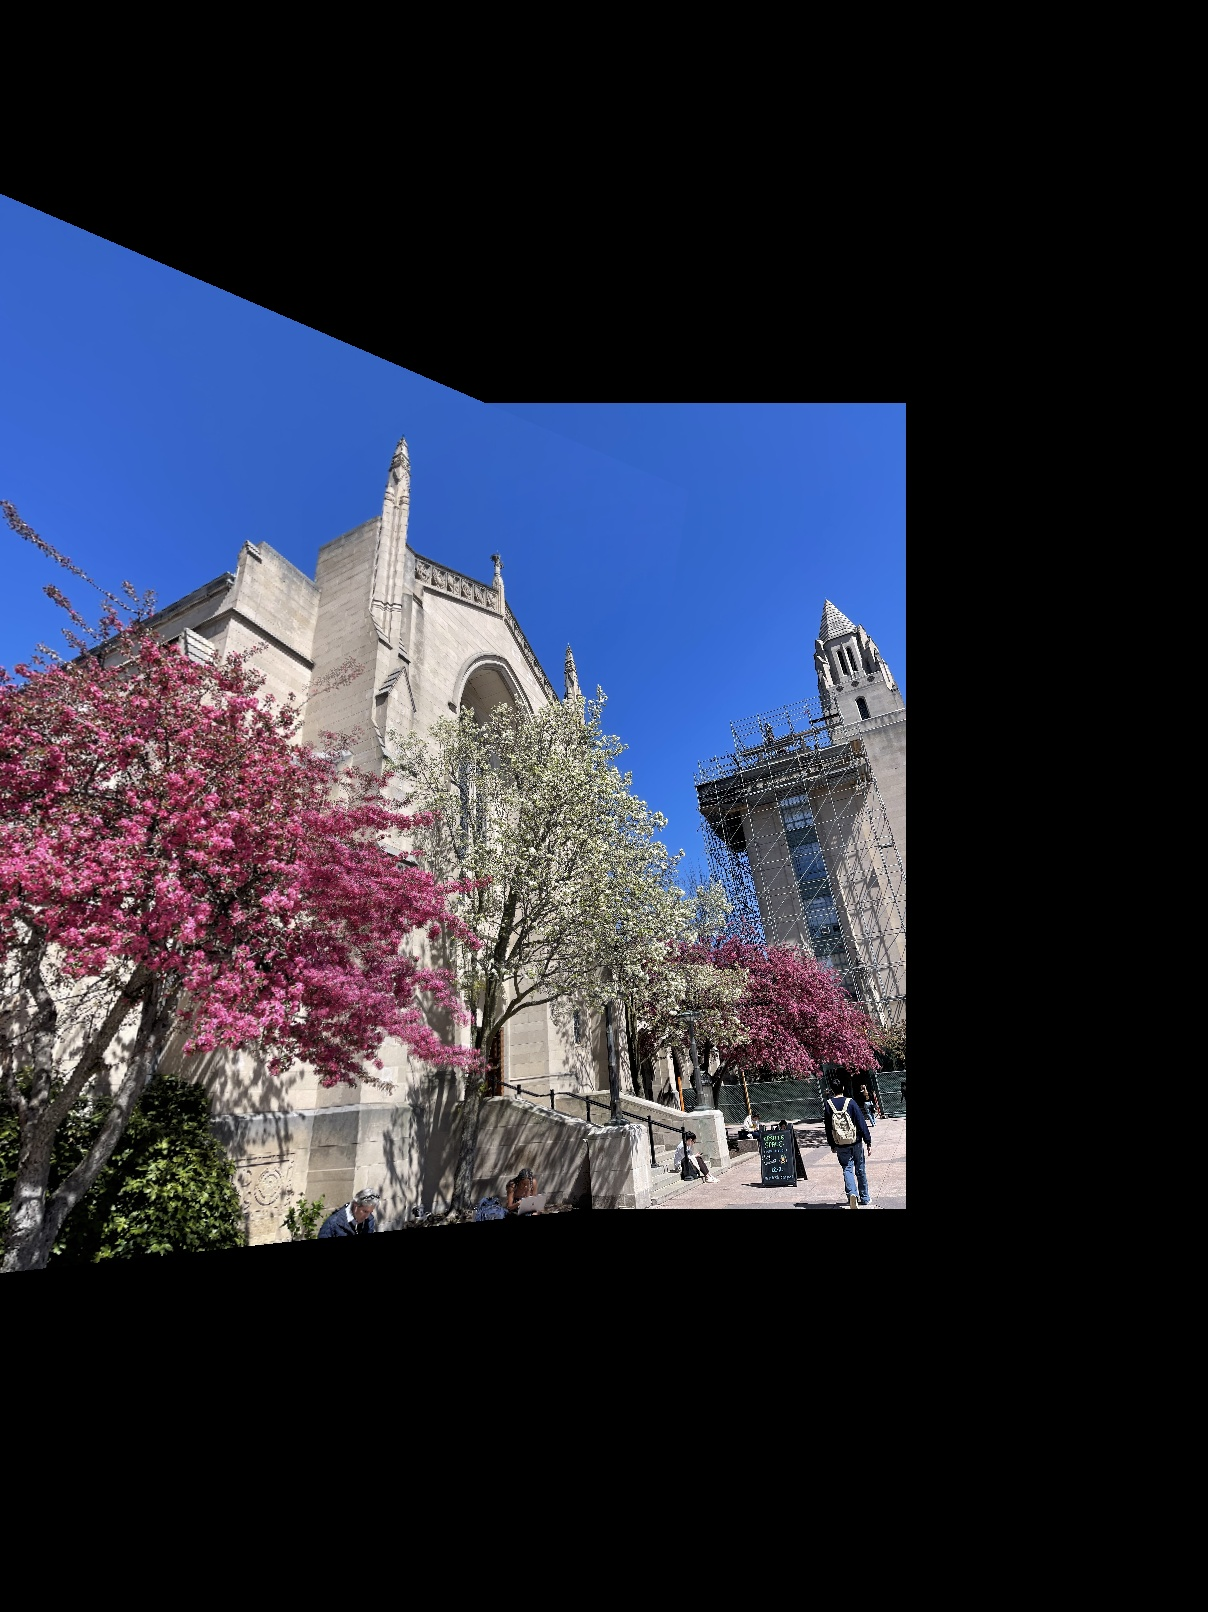
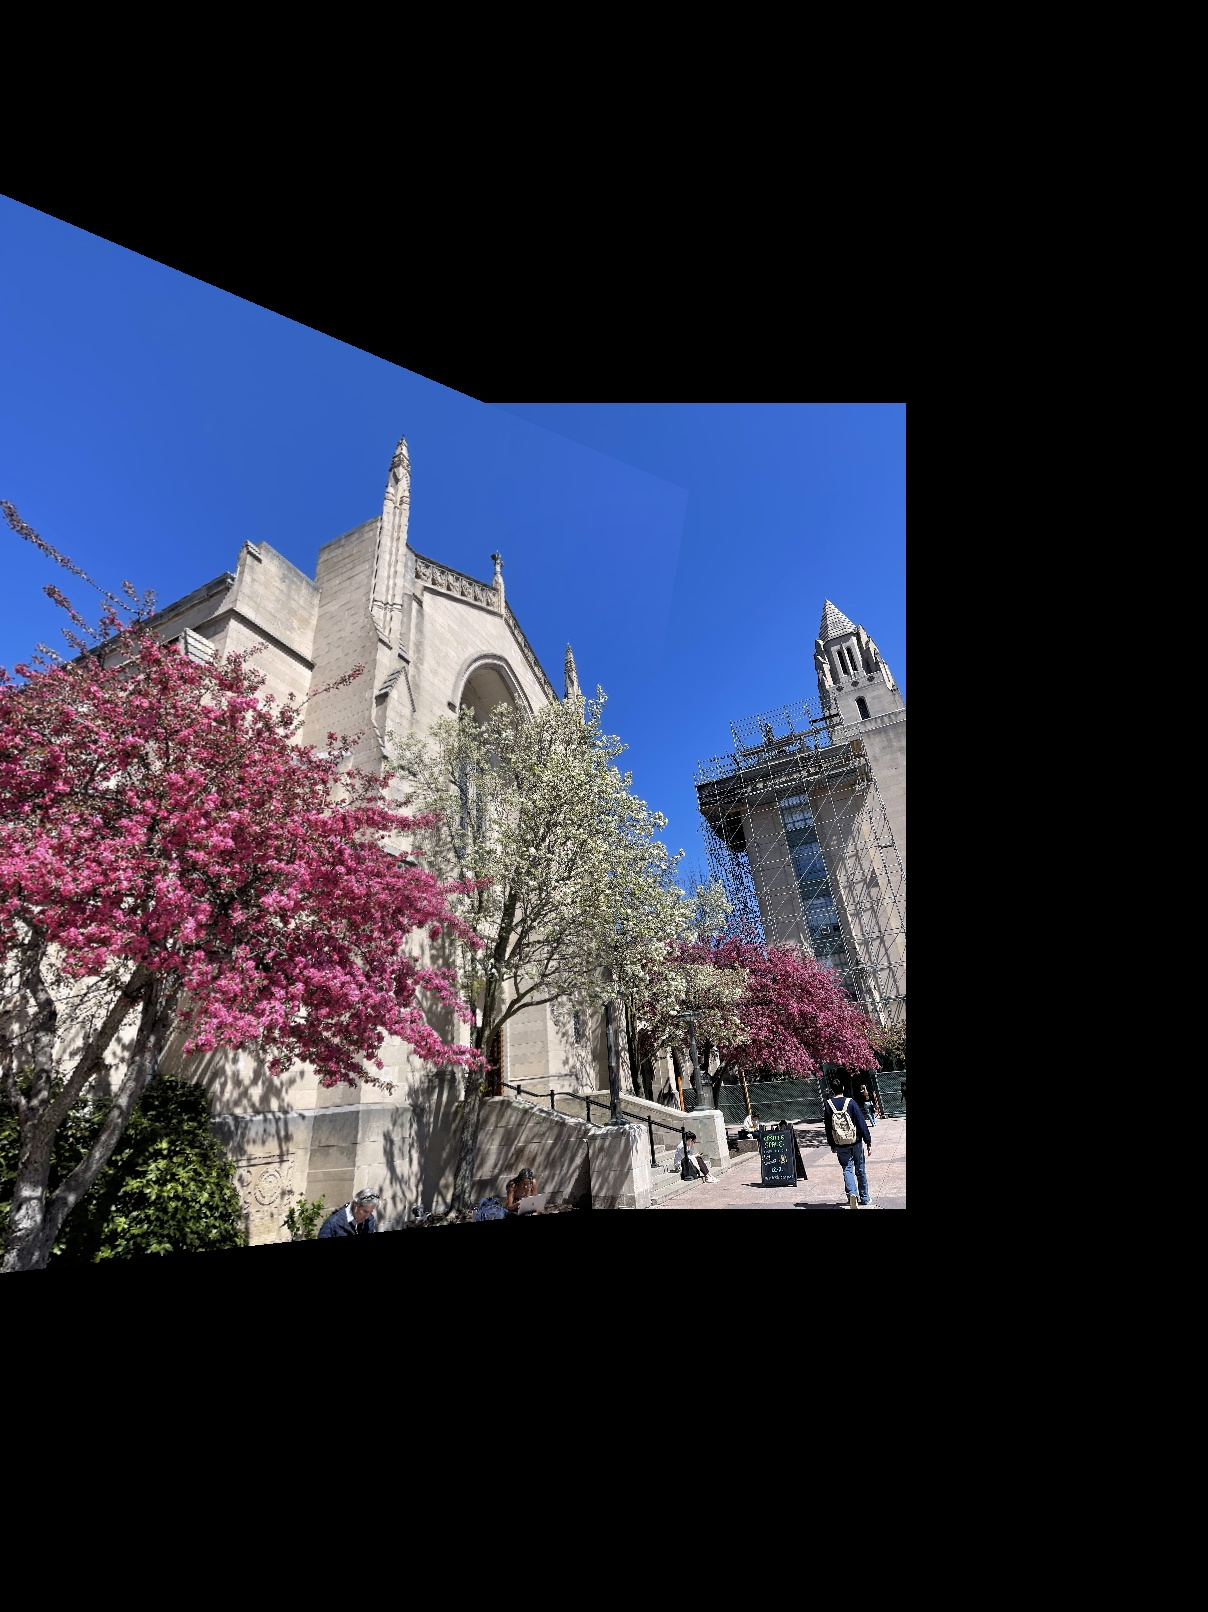
finalize

Changed region(s): [[0.245, 0.4032, 0.4901, 0.6824], [0.3369, 0.3412, 0.4288, 0.4032], [0.3063, 0.3722, 0.3369, 0.4032]]

diff --git a/ImageStiching-Han.py b/ImageStiching-Han.py
@@ -28,7 +28,7 @@ print("Start Stitching ...")
 
 # display key points matching outcome
 show_matches = False
-result = stitch.stitchs_batch_images(images, 3, 1.5, showMatches=show_matches)
+result = stitch.stitchs_batch_images(images, 2, 1.5, showMatches=show_matches)
 
 # Display all pictures
 # cv2.namedWindow("Result2_ACB",0)
